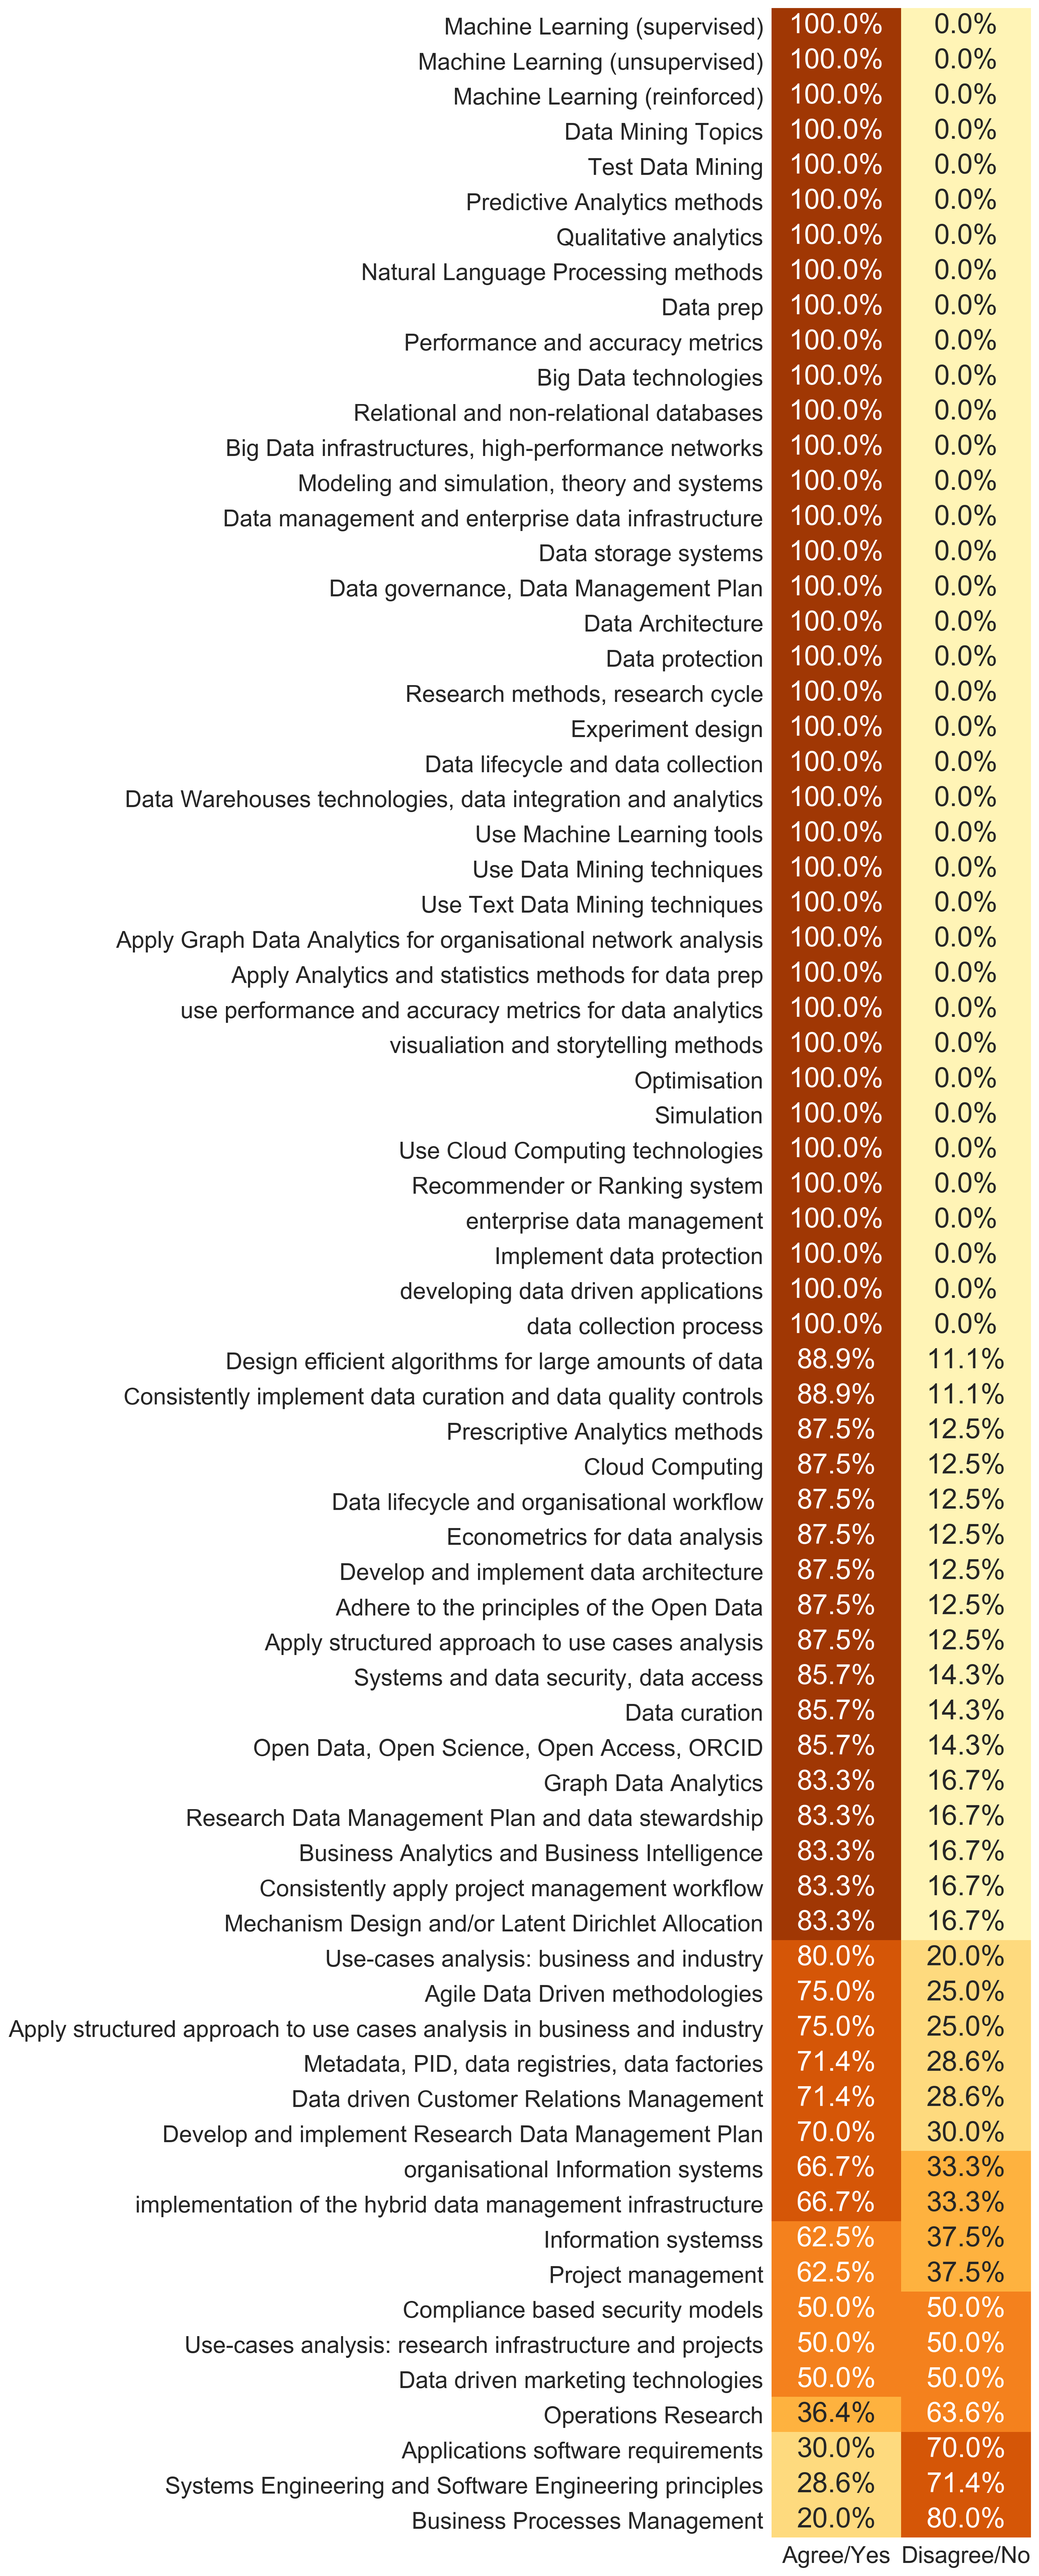
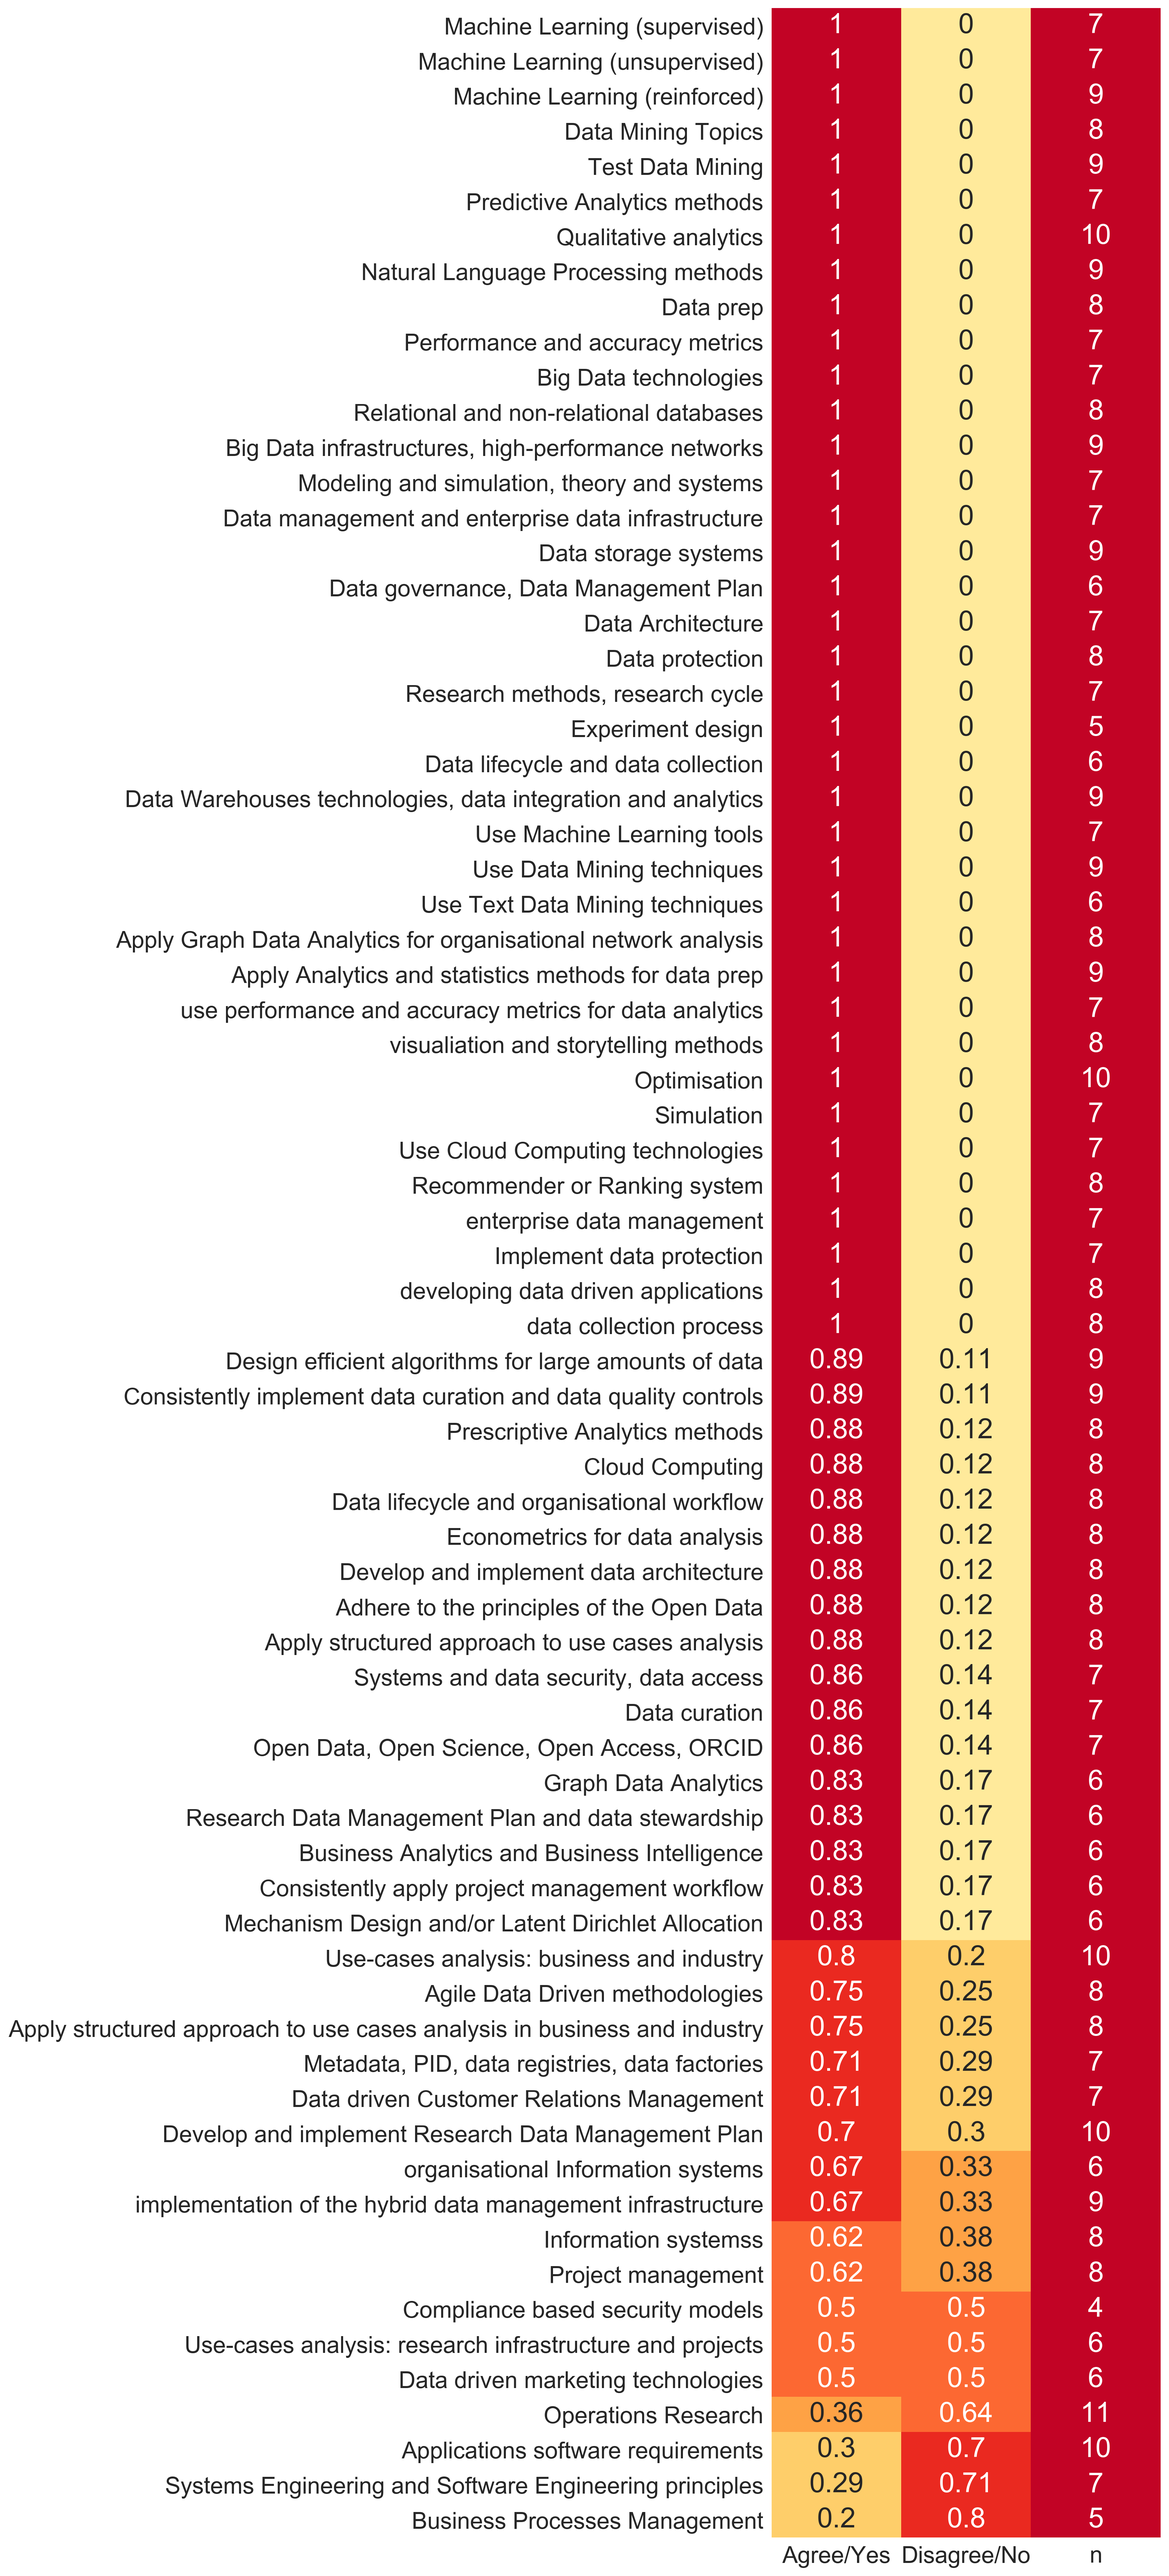
messing with heatmap coloring and settings

diff --git a/source/data analysis/summary Table.py b/source/data analysis/summary Table.py
@@ -18,16 +18,26 @@ pd.set_option('display.width', 180)
 import seaborn as sns
 
 df = pd.read_pickle("../../data/courses.pkl")
+
+#this grabs the 'within ds' values, removes the 0s for easy counting, counts all the collumns, 
+#transposes its from columns to rows (so each topic is a row), and turns the nans (which means the "agree"/"disagree" didnt show up) to 0s
 agreeCount = df.xs("Within DS",level=1).replace(0,np.NaN).apply(pd.Series.value_counts).transpose().fillna(0)
-agreeCount
+
+
+agreeCount["n"] = agreeCount["Agree/Yes"] + agreeCount["Disagree/No"] 
 agreeCount["Agree/Yes"] = agreeCount["Agree/Yes"]/(agreeCount["Agree/Yes"]+agreeCount["Disagree/No"])
 agreeCount["Disagree/No"] = 1-agreeCount["Agree/Yes"]
 
 
 
-plt.figure(figsize=(4,40))
+plt.figure(figsize=(6,40))
 sns.set(font_scale=2)
-x = sns.heatmap(agreeCount.sort_values(["Agree/Yes","Disagree/No"],ascending=False),annot=True,xticklabels=True,cbar=False,cmap=sns.color_palette("YlOrBr"),fmt=".1%")
+x = sns.heatmap(agreeCount.sort_values(["Agree/Yes","Disagree/No"],ascending=False),
+                annot=True,xticklabels=True,cbar=False,
+                cmap=sns.color_palette("YlOrRd"),
+                vmin = 0, vmax = 1,center=.5)
+
+
 x = x.get_figure()
 x.savefig("output.png",dpi=250,bbox_inches="tight")
 
